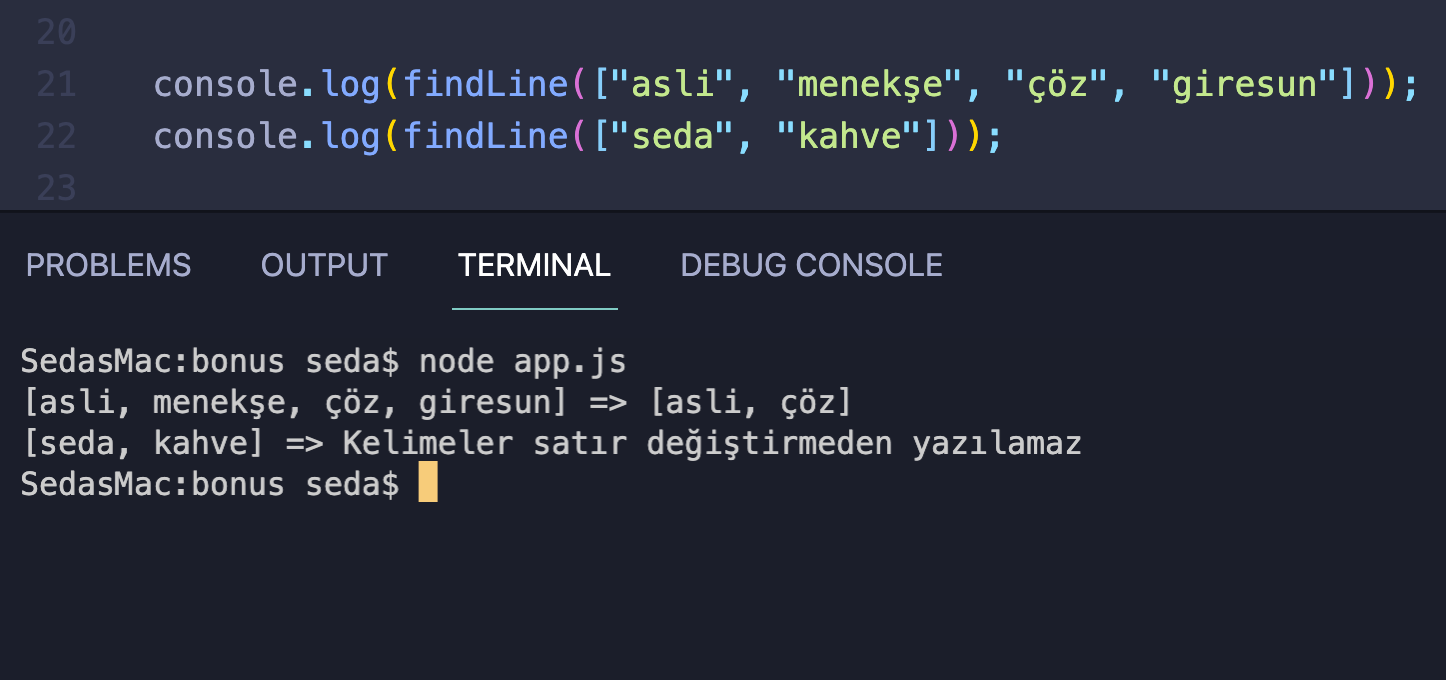
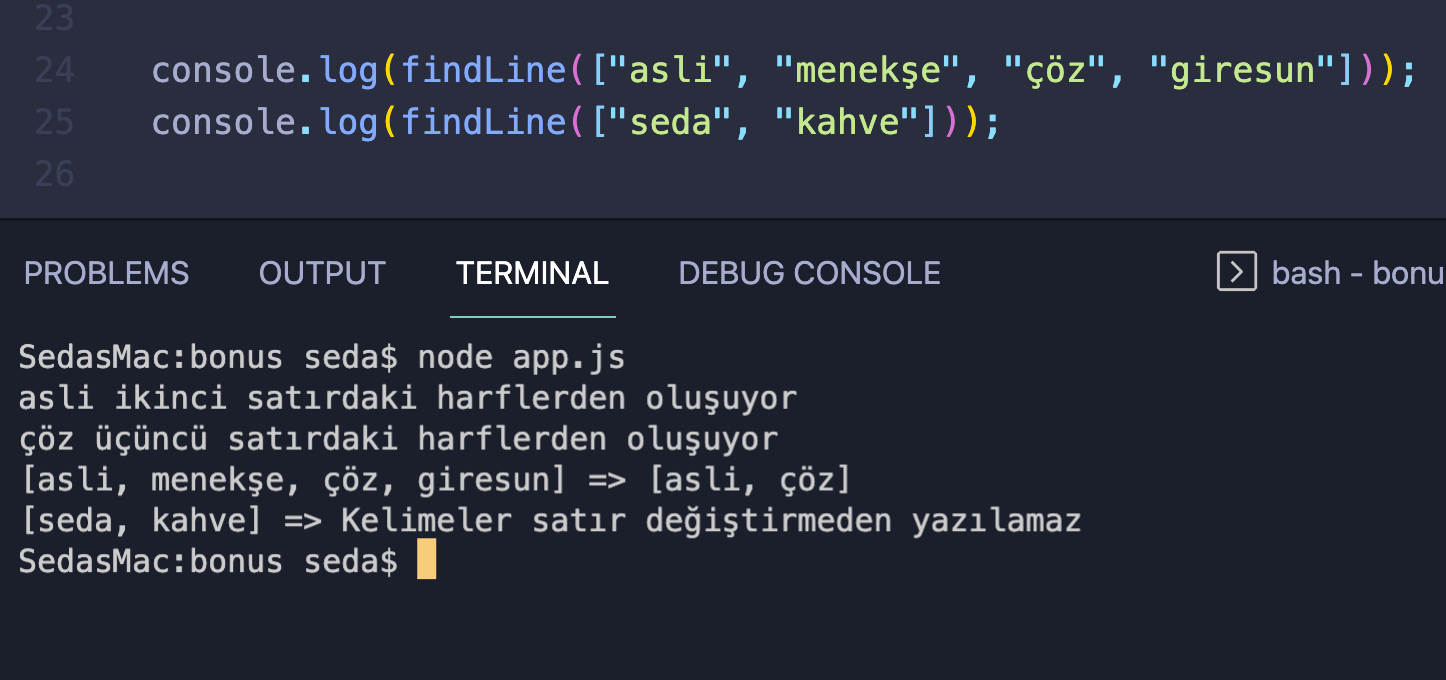
bonus v2

diff --git a/Homework-6/bonus/app.js b/Homework-6/bonus/app.js
@@ -2,11 +2,14 @@ import { line1, line2, line3 } from "./lines.js";
 
 const hasSubString = (word) => {
   if (word.split("").every((letter) => line1.includes(letter))) {
-    return word;
+    console.log(`${word} birinci satırdaki harflerden oluşuyor`);
+    return true;
   } else if (word.split("").every((letter) => line2.includes(letter))) {
-    return word;
+    console.log(`${word} ikinci satırdaki harflerden oluşuyor`);
+    return true;
   } else if (word.split("").every((letter) => line3.includes(letter))) {
-    return word;
+    console.log(`${word} üçüncü satırdaki harflerden oluşuyor`);
+    return true;
   }
   return false;
 };
